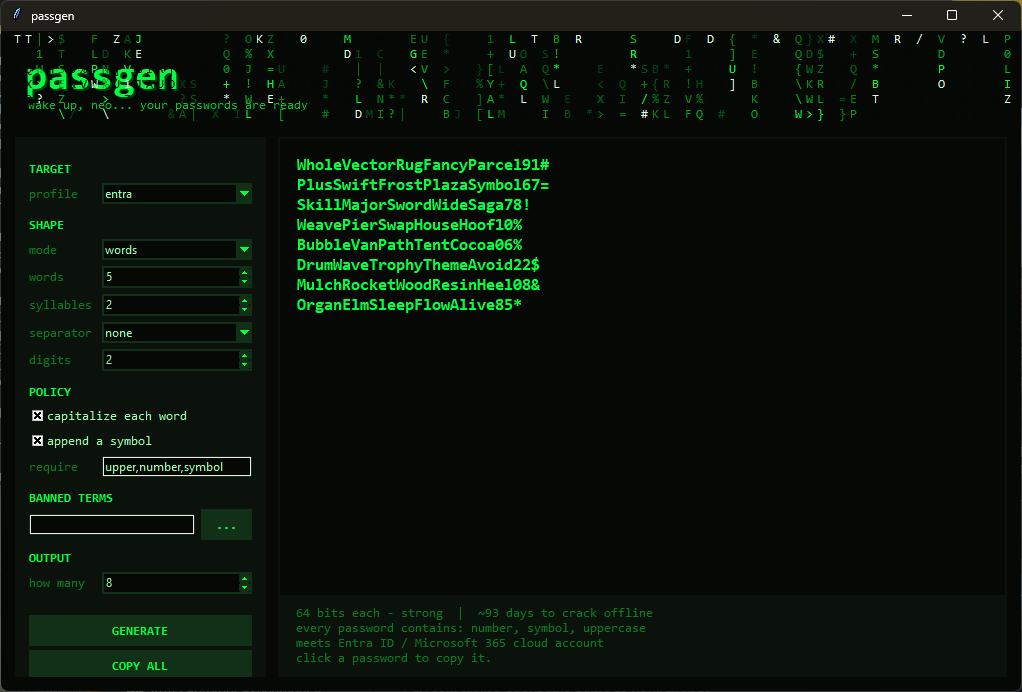
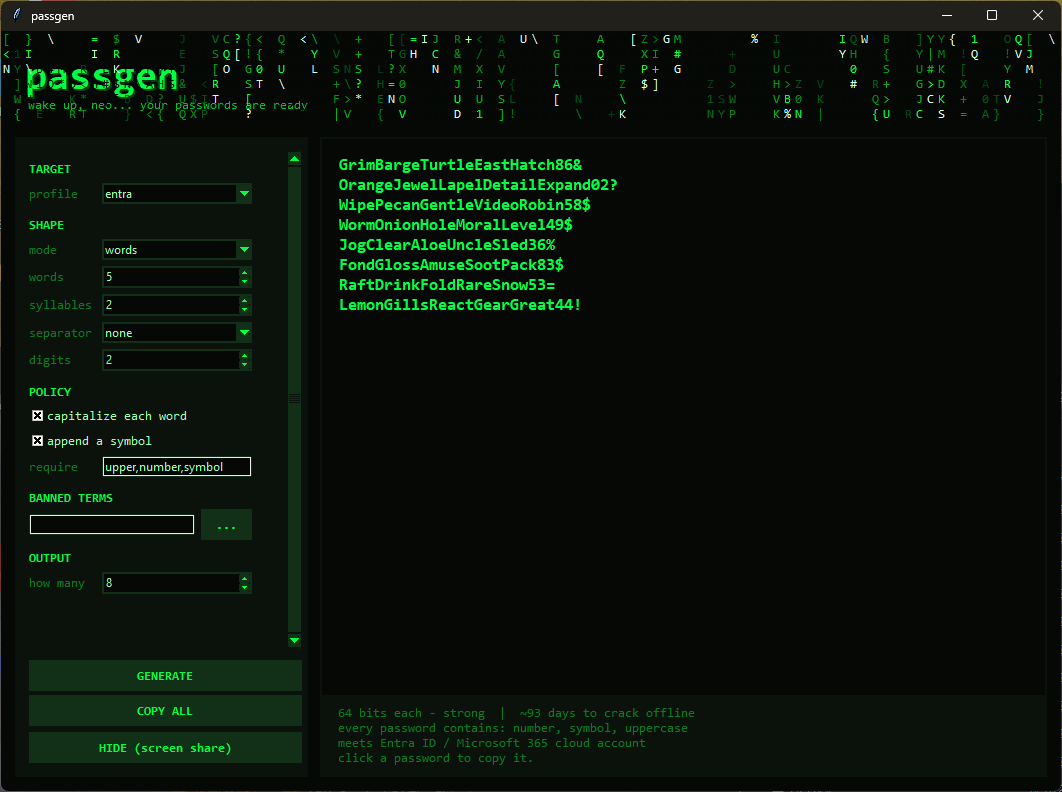
Stop the GUI clipping its own controls, and record the real SmartScreen text
Testing on a 1366x768 VM showed the HIDE button simply was not there. It was
not missing - the settings panel wanted 595px of a 540px window and the last
row fell off the bottom, unreachable. Pinning the buttons only moved the
problem: the OUTPUT field was clipped instead.

The settings area now scrolls and the buttons stay pinned below it, so nothing
is out of reach at any window size, and the window opens sized to the screen
rather than to a fixed guess. Verified at four window sizes down to 1000x520.

Also cancels the animation frame still queued when the window closes; without
it Tk printed an error against a destroyed interpreter on exit.

The README's SmartScreen warning was a guess and it was wrong - too alarming.
The observed behaviour on a clean Windows 11 machine is a single Edge notice,
"passgen.exe isn't commonly downloaded", after which it runs with no further
prompts and Defender leaves it alone. Replaced the guess with what actually
happens, and added the attestation command for anyone who wants to verify the
download.

Screenshot regenerated: the old one predated the HIDE button.

Changed region(s): [[0.0, 0.0, 1.0, 1.0], [0.9706, 0.1214, 1.0, 0.1517]]

diff --git a/passgen/gui.py b/passgen/gui.py
@@ -51,6 +51,7 @@ class MatrixRain:
         self.cols = self.rows = 0
         self.drops = []
         self.running = True
+        self.pending = None  # so stop() can cancel a frame already scheduled
         canvas.bind("<Configure>", self._rebuild)
 
     def _rebuild(self, event):
@@ -108,10 +109,21 @@ class MatrixRain:
                 if head - row in (0, 1) or random.random() < 0.02:
                     opts["text"] = random.choice(GLYPHS)
                 self.canvas.itemconfig(item, **opts)
-        self.canvas.after(self.delay, self.step)
+        self.pending = self.canvas.after(self.delay, self.step)
 
     def stop(self):
+        """Halt the animation, cancelling any frame already queued.
+
+        Without cancelling, a frame scheduled before the window closes fires
+        against a destroyed interpreter and Tk prints an error on exit.
+        """
         self.running = False
+        if self.pending is not None:
+            try:
+                self.canvas.after_cancel(self.pending)
+            except Exception:
+                pass
+            self.pending = None
 
 
 class PassgenGUI:
@@ -124,8 +136,13 @@ class PassgenGUI:
         self.copied = None
         root.title("passgen")
         root.configure(bg=BG)
-        root.minsize(900, 620)
-        root.geometry("1020x660")
+        root.minsize(880, 560)
+        # Open big enough that nothing needs scrolling on a normal display, but
+        # never taller than the screen: a 1366x768 laptop was the case where
+        # controls fell off the bottom.
+        width = min(1060, root.winfo_screenwidth() - 120)
+        height = min(760, root.winfo_screenheight() - 140)
+        root.geometry(f"{width}x{height}")
 
         self._dark_titlebar()
         self._build_style()
@@ -184,6 +201,10 @@ class PassgenGUI:
                       foreground=[("readonly", TEXT)])
         style.configure("TEntry", fieldbackground=BG, foreground=TEXT,
                         insertcolor=GREEN, bordercolor=EDGE)
+        style.configure("Dark.Vertical.TScrollbar", background=EDGE,
+                        troughcolor=PANEL, bordercolor=PANEL, arrowcolor=GREEN,
+                        darkcolor=EDGE, lightcolor=EDGE)
+        style.map("Dark.Vertical.TScrollbar", background=[("active", DIM)])
         # The combobox dropdown is a classic Tk listbox, themed via options.
         self.root.option_add("*TCombobox*Listbox.background", BG)
         self.root.option_add("*TCombobox*Listbox.foreground", TEXT)
@@ -220,8 +241,39 @@ class PassgenGUI:
         self._build_output(body)
 
     def _build_controls(self, parent):
-        panel = ttk.Frame(parent, style="Panel.TFrame", padding=14)
-        panel.grid(row=0, column=0, sticky="ns", padx=(0, 12))
+        # The settings are taller than the window on a 1366x768 screen, so
+        # whatever sits last gets clipped - first the HIDE button, then the
+        # OUTPUT field once the buttons were pinned. Rather than shave padding
+        # until it happens to fit on one particular screen, the settings scroll
+        # and the buttons stay pinned below them, so nothing is ever out of
+        # reach at any window size.
+        outer = ttk.Frame(parent, style="Panel.TFrame", padding=(14, 14, 6, 14))
+        outer.grid(row=0, column=0, sticky="ns", padx=(0, 12))
+
+        actions = ttk.Frame(outer, style="Panel.TFrame")
+        actions.pack(side="bottom", fill="x", pady=(12, 0))
+
+        canvas = tk.Canvas(outer, bg=PANEL, highlightthickness=0, width=258,
+                           borderwidth=0)
+        scrollbar = ttk.Scrollbar(outer, orient="vertical",
+                                  command=canvas.yview, style="Dark.Vertical.TScrollbar")
+        canvas.configure(yscrollcommand=scrollbar.set)
+        scrollbar.pack(side="right", fill="y")
+        canvas.pack(side="left", fill="both", expand=True)
+
+        panel = ttk.Frame(canvas, style="Panel.TFrame")
+        window = canvas.create_window((0, 0), window=panel, anchor="nw")
+        panel.bind("<Configure>",
+                   lambda _e: canvas.configure(scrollregion=canvas.bbox("all")))
+        canvas.bind("<Configure>",
+                    lambda e: canvas.itemconfigure(window, width=e.width))
+
+        # Wheel scrolling only while the pointer is over the settings, so it
+        # doesn't fight the password list.
+        def wheel(event):
+            canvas.yview_scroll(-1 if event.delta > 0 else 1, "units")
+        canvas.bind("<Enter>", lambda _e: canvas.bind_all("<MouseWheel>", wheel))
+        canvas.bind("<Leave>", lambda _e: canvas.unbind_all("<MouseWheel>"))
 
         self.profile = tk.StringVar(value="entra")
         self.mode = tk.StringVar(value="words")
@@ -297,16 +349,13 @@ class PassgenGUI:
         field("how many", ttk.Spinbox(panel, from_=1, to=50, width=16,
                                       textvariable=self.count))
 
-        ttk.Button(panel, text="GENERATE", command=self.generate).grid(
-            row=row, column=0, columnspan=2, sticky="ew", pady=(18, 4))
-        row += 1
-        ttk.Button(panel, text="COPY ALL", command=self.copy_all).grid(
-            row=row, column=0, columnspan=2, sticky="ew")
-        row += 1
-        self.hide_button = ttk.Button(panel, text="HIDE (screen share)",
+        ttk.Button(actions, text="GENERATE", command=self.generate).pack(
+            fill="x", pady=(0, 4))
+        ttk.Button(actions, text="COPY ALL", command=self.copy_all).pack(
+            fill="x")
+        self.hide_button = ttk.Button(actions, text="HIDE (screen share)",
                                       command=self.toggle_hidden)
-        self.hide_button.grid(row=row, column=0, columnspan=2, sticky="ew",
-                              pady=(6, 0))
+        self.hide_button.pack(fill="x", pady=(6, 0))
 
     def _build_output(self, parent):
         frame = ttk.Frame(parent, style="Panel.TFrame", padding=2)

diff --git a/passgen/__init__.py b/passgen/__init__.py
@@ -1,3 +1,3 @@
 """passgen - random passwords that are easy to remember and easy to type."""
 
-__version__ = "0.2.1"
+__version__ = "0.2.2"

diff --git a/README.md b/README.md
@@ -58,11 +58,18 @@ character, so it satisfies the complexity rules most workplaces enforce.
 That's the whole thing — no Python, no setup. The window in the screenshot opens
 with eight passwords ready. **Click any password to copy it.**
 
-> **Windows will probably warn you.** The file isn't code-signed (certificates
-> cost money), so SmartScreen may say *"Windows protected your PC"* — click
-> **More info → Run anyway**. Some antivirus tools also flag PyInstaller
-> executables generically. If that makes you uncomfortable, use the source
-> install below instead: it's the same code, and you can read every line of it.
+> **Windows will warn you once.** The file isn't code-signed (certificates cost
+> money), so Edge says *"passgen.exe isn't commonly downloaded. Make sure you
+> trust passgen.exe before you open it."* Choose **Keep**, and it runs — no
+> further prompts, and Defender doesn't quarantine it. If that still makes you
+> uncomfortable, install from source below: it's the same code and you can read
+> every line of it.
+>
+> You can verify the download is genuinely the one built from this repository:
+>
+> ```
+> gh attestation verify passgen.exe --repo Revg1794/passgen
+> ```
 
 ### With Python (any OS)
 
